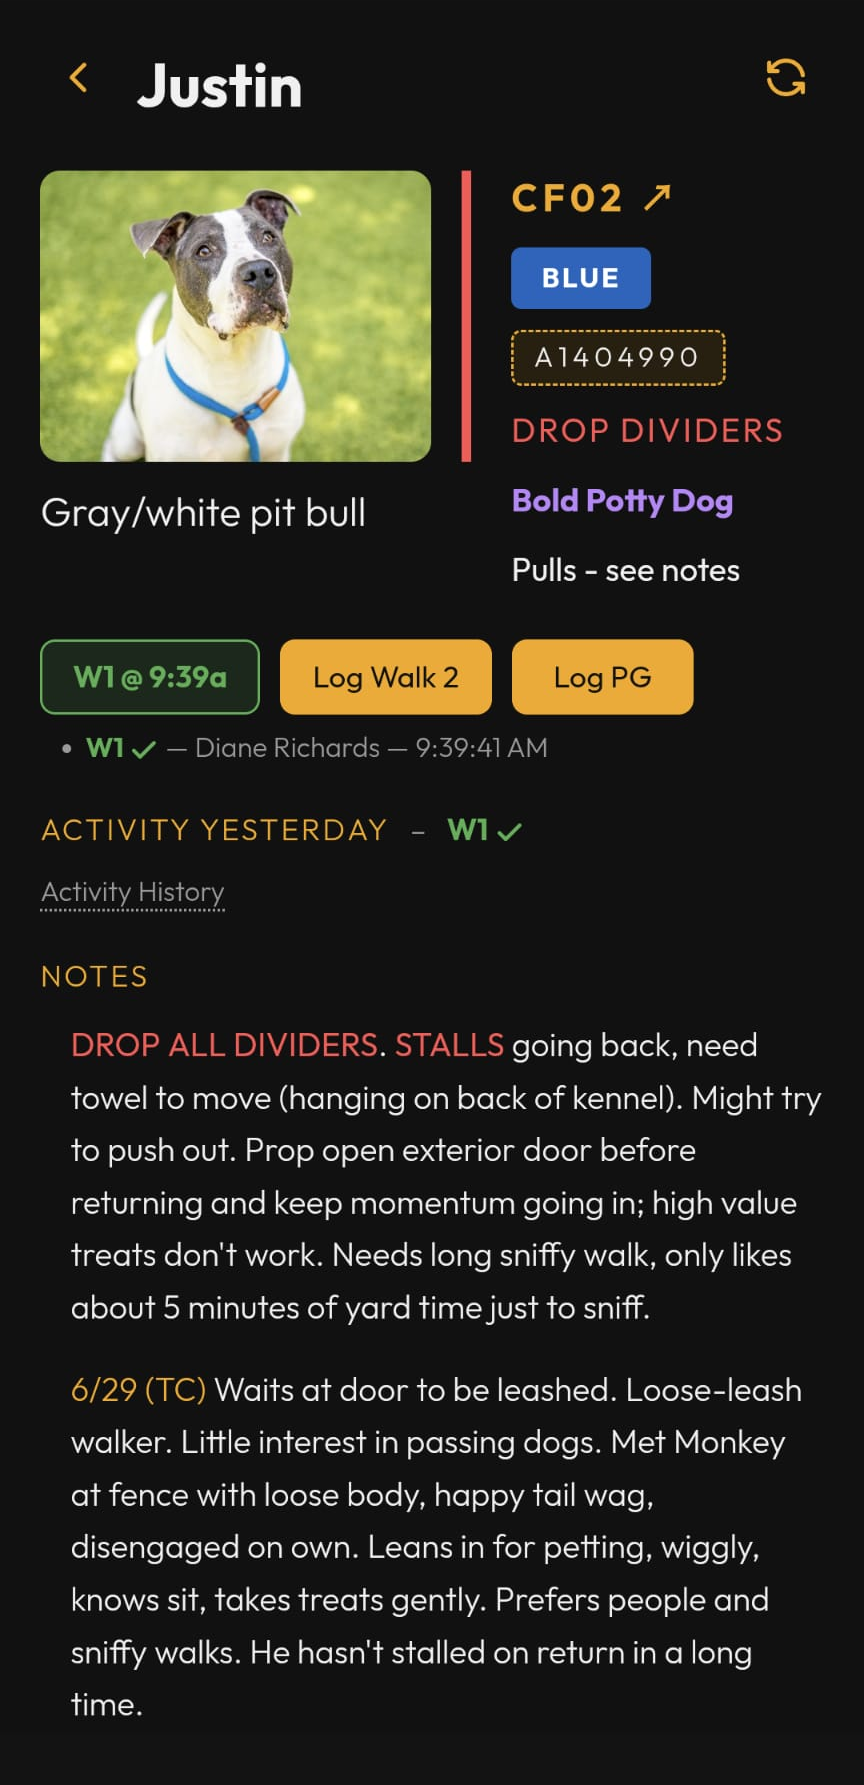
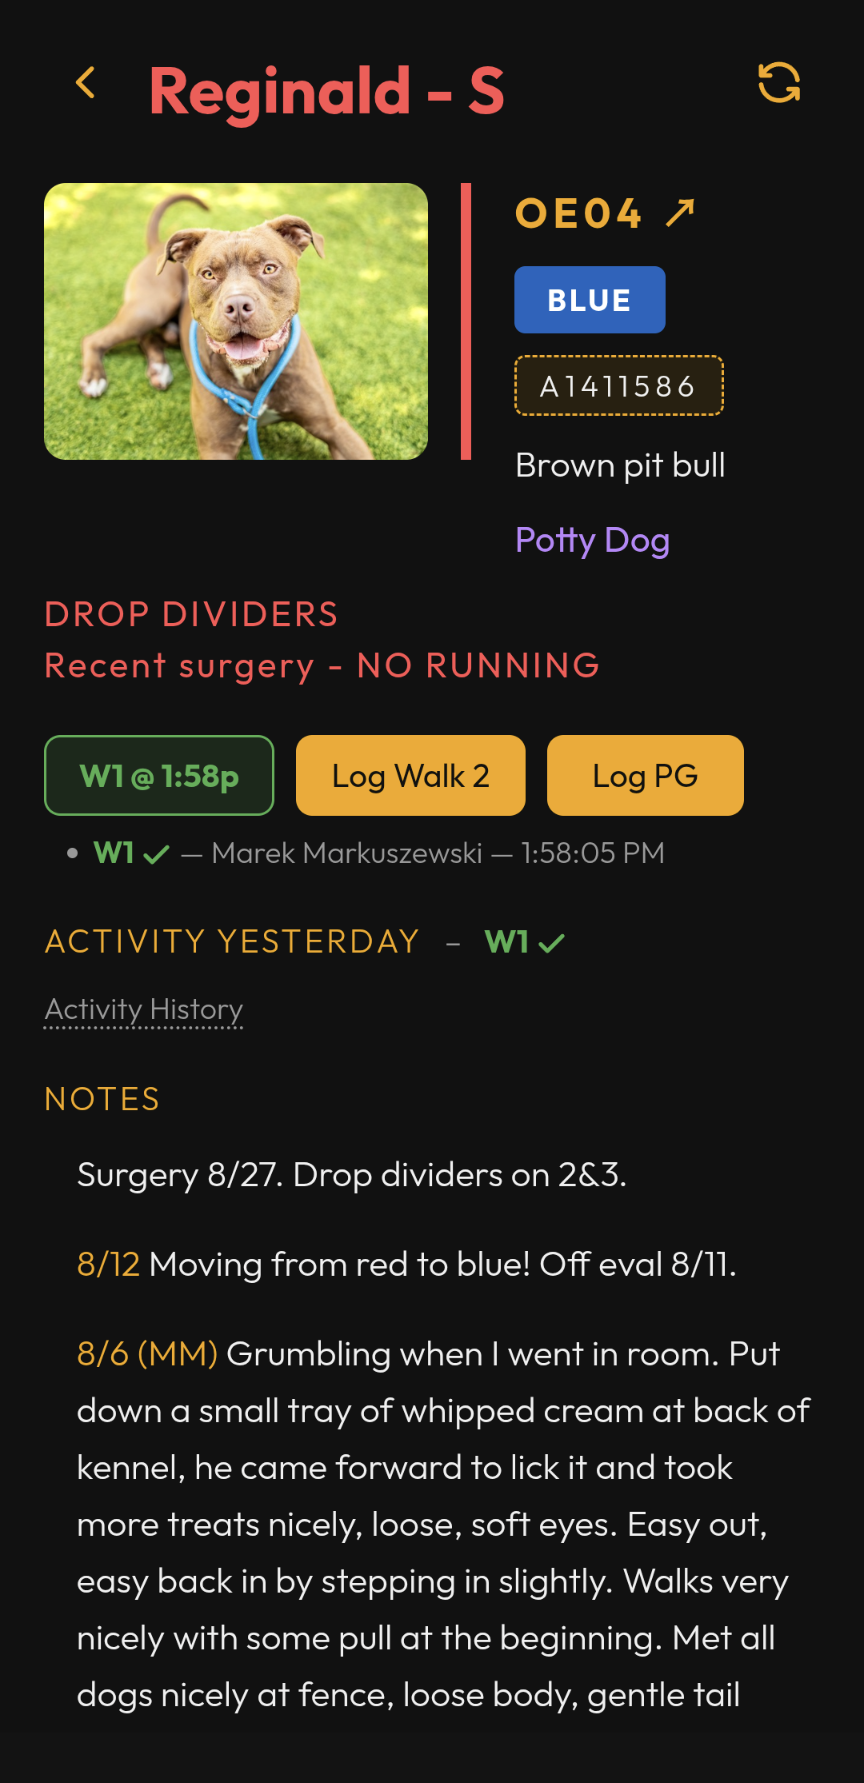
Re-shoot the dog page screenshot for the post-#646 layout (#124)
Trimmed 89 rows of screenshot chrome off the top — a pure-black band and
the divider line under it — and converted the JPEG to PNG, matching the
other images here. 864x1783.

The old shot predated the layout change, so the page described a flag line
below the photo while showing flags in the identity column. The new one
happens to demonstrate the split well: breed and Potty Dog beside the
photo, DROP DIVIDERS and Recent surgery - NO RUNNING full-width under it.

Alt text updated too — the first button reads W1 @ 1:58p in this shot, not
Log Walk 1.

diff --git a/WALKER.md b/WALKER.md
@@ -94,7 +94,7 @@ active filter (see [Filters](#filters)).
 
 ## The dog detail page
 
-![Screenshot: Dog page with Log Walk 1 / Log Walk 2 / Log PG buttons](images/walker-dog-activity.png)
+![Screenshot: Dog page with Walk 1 logged, and Log Walk 2 / Log PG still to do](images/walker-dog-activity.png)
 
 The photo sits on the left, with the dog's details stacked beside it:
 
